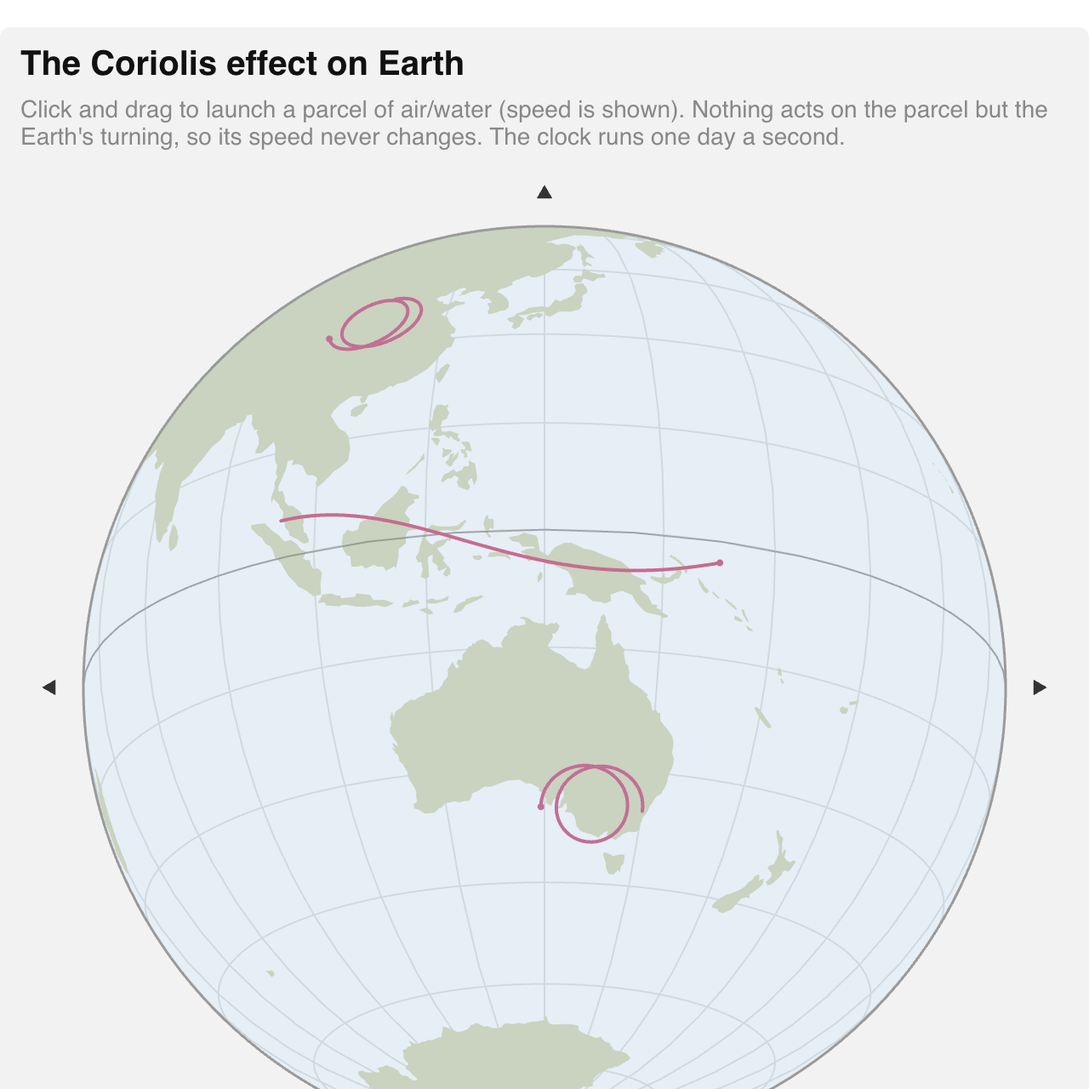
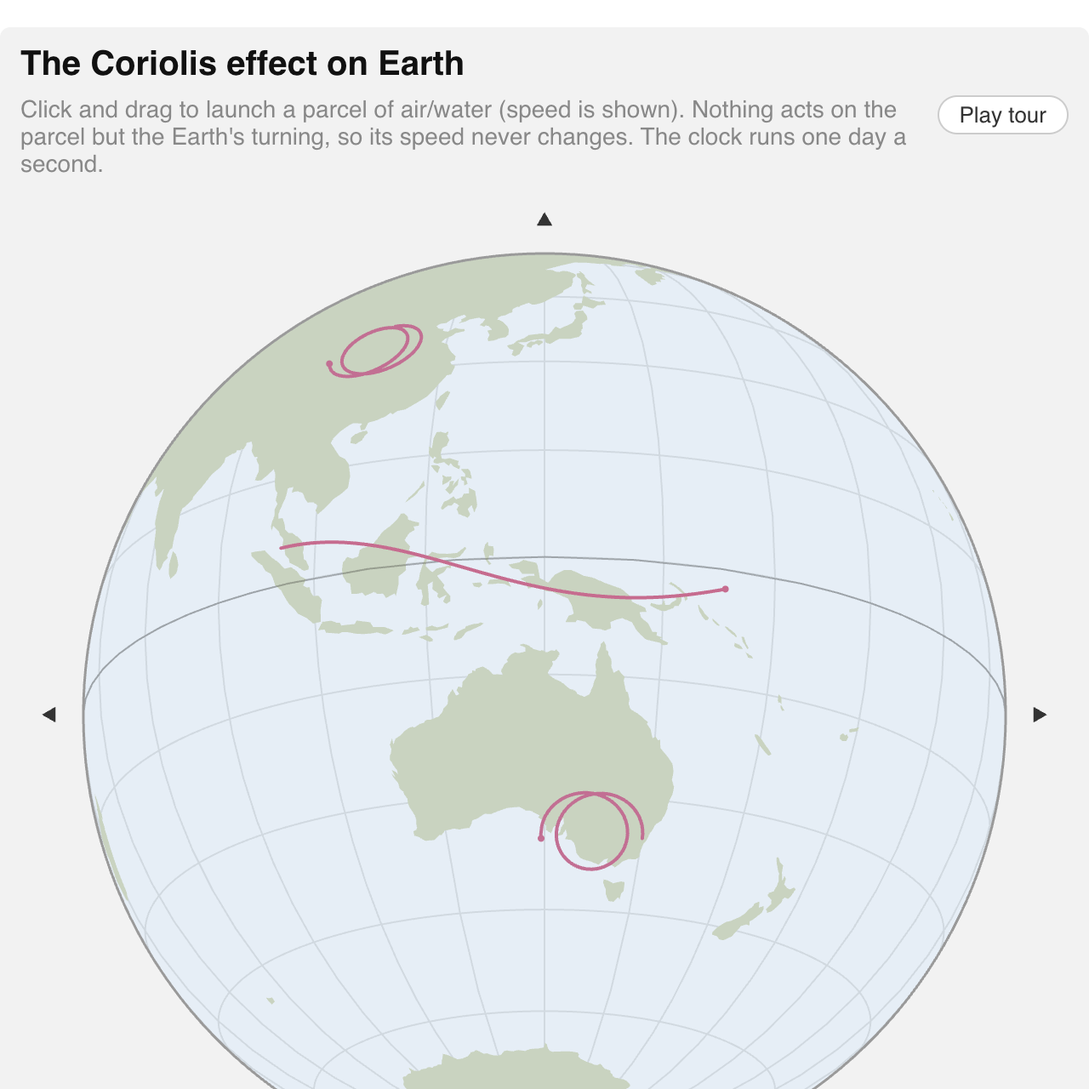
Coriolis globe: a tour of the East Australian Current and of winds over Australia
Left alone, the figure plays a tour, as the blackbody widget does. It flies the view, with
an eased zoom over five seconds, to the Tasman Sea off the east coast and sets sixteen
parcels of water going at random spots off the shelf between 27° S and 36° S, heading
roughly south as the East Australian Current does, at 0.1 to 2 m/s drawn evenly in the
logarithm; waits for them to fade; flies back out over the continent and sets eight
parcels of air going in random directions at 15 to 40 m/s; waits again; and goes round.
A tour parcel stays eight seconds before fading. Any throw, view button or key stops the
tour and a Play tour button beside the note starts it again; it does not play for a reader
who prefers reduced motion, the embed takes ?tour=0 and the factory {tour: false}. The
parcel cap goes to twenty so the current's sixteen are all seen at once. Parcels carry
their own lifetime so the tour's can be shorter than a thrown one's.

diff --git a/src/coriolis-sphere/widget.js b/src/coriolis-sphere/widget.js
@@ -31,6 +31,7 @@ import {geoOrthographic, geoPath, geoGraticule, geoDistance} from "https://cdn.j
 import {feature} from "https://cdn.jsdelivr.net/npm/topojson-client@3/+esm";
 
 const BACKGROUND = "#f2f2f2";
+const ACCENT = "#0b57d0";
 const OCEAN = "#e6eef6";
 const LAND = "#c9d3c0";
 const RIM = "#9a9a9a";
@@ -45,7 +46,7 @@ const TRACE_WIDTH = 2;            // px; a parcel's marker is twice as wide
 const EARTH_RADIUS = 6371;        // km
 const OMEGA = 7.2921e-5;          // rad/s
 const SIDEREAL_DAY = 86164;       // s
-const MAX_THROWS = 10;
+const MAX_THROWS = 20;            // enough for the tour's sixteen parcels of current at once
 const LIFE = 40;                  // wall-clock s a trace is shown in full
 const FADE = 8;                   // s it then takes to fade away
 // The drag's length maps onto the logarithm of the speed, as a log slider does: a hundredth
@@ -65,13 +66,42 @@ const GLOBE_R = 0.44;             // globe radius as a fraction of the figure's 
 const SPIN_RATE = 45;             // °/s the view turns while an arrow button or key is held, at zoom 1
 const ZOOM_STEP = 1.5, ZOOM_MAX = 100; // at 100× a 1 m/s current's 10 km loop is 40 px across
 
+// The tour, played when the figure is left alone: a slow zoom onto the Tasman Sea off the
+// east coast of Australia, where the East Australian Current runs south along the shelf,
+// and a handful of parcels of water set off at a current's pace; then back out over the
+// continent, where a handful of parcels of air set off at a gale's. Each scene waits for
+// its parcels to fade, then the next begins, and the tour goes round again. `box` is the
+// [lon, lat] corners the parcels start in, `heading` the compass direction they set off in,
+// ± `spread`, and `speed` the range in m/s, drawn evenly in the logarithm.
+const TOUR = [
+  {
+    name: "the East Australian Current",
+    view: {lon: 153.5, lat: -31.5, zoom: 9},
+    box: [[152.5, -36], [156, -27]], offshore: true,
+    heading: 190, spread: 50, speed: [0.1, 2], count: 16,
+  },
+  {
+    name: "winds over Australia",
+    view: {lon: 134, lat: -26, zoom: 2.2},
+    box: [[118, -34], [148, -18]],
+    heading: 90, spread: 180, speed: [15, 40], count: 8,
+  },
+];
+const TOUR_FLY = 5;         // s a scene's zoom takes
+const TOUR_LIFE = 8;        // s a tour parcel stays in full before it fades
+const TOUR_SPAWN_GAP = 0.3; // s between one tour parcel and the next
+const TOUR_START = 1.5;     // s the tour waits before its first scene
+
 const FIGURE_WIDTH = 640;
 const MIN_WIDTH = 320;
 const SVG_NS = "http://www.w3.org/2000/svg";
 
-// `world` is the TopoJSON with a `land` object; `width` caps the figure's side. `demo`
-// launches three parcels and runs the clock on a moment, for a capture of the figure in use.
-export function createCoriolisSphereWidget({world, width = FIGURE_WIDTH, demo = false} = {}) {
+// `world` is the TopoJSON with a `land` object; `width` caps the figure's side; `tour`
+// false leaves the figure still until it is touched (it is also left still for a reader who
+// prefers reduced motion). `demo` launches three parcels and runs the clock on a moment,
+// for a capture of the figure in use, and plays no tour.
+export function createCoriolisSphereWidget({world, width = FIGURE_WIDTH, tour: playTour = true, demo = false} = {}) {
+  const reduceMotion = window.matchMedia?.("(prefers-reduced-motion: reduce)")?.matches;
   const land = world?.objects?.land ? feature(world, world.objects.land) : null;
   const graticule = geoGraticule().step([15, 15])();
   const equator = {type: "LineString", coordinates: [[-180, 0], [-90, 0], [0, 0], [90, 0], [180, 0]]};
@@ -100,6 +130,8 @@ export function createCoriolisSphereWidget({world, width = FIGURE_WIDTH, demo = 
   const spin = {lon: 0, lat: 0}; // −1, 0 or 1: which way the view is being turned
   const parcels = [];
   let drag = null; // {start: [lon, lat] on the Earth, q: [sx, sy] pointer on screen, color}
+  let flight = null; // {from: {lon, lat, logZoom}, to, t, dur}: the view on its way somewhere
+  let touring = false, tour = null; // {scene, stage: "fly" | "spawn" | "hold", t, spawned}
 
   // ---- DOM ------------------------------------------------------------------------------------
   const container = document.createElement("div");
@@ -112,13 +144,24 @@ export function createCoriolisSphereWidget({world, width = FIGURE_WIDTH, demo = 
   title.textContent = "The Coriolis effect on Earth";
   container.appendChild(title);
 
+  // The note, with the tour button at its right. Words rather than a ▶ glyph, which iOS
+  // swaps for a colour emoji.
+  const noteRow = document.createElement("div");
+  noteRow.style.cssText = "display:flex;align-items:flex-start;gap:12px;padding:0 0 8px;";
   const note = document.createElement("div");
-  note.style.cssText = "padding:0 0 8px;color:#888;font-size:14px;";
+  note.style.cssText = "flex:1 1 auto;color:#888;font-size:14px;";
   note.textContent =
     "Click and drag to launch a parcel of air/water (speed is shown). " +
     "Nothing acts on the parcel but the Earth's turning, so its speed never changes. " +
     `The clock runs ${describeClock(DAY_SECONDS)}.`;
-  container.appendChild(note);
+  const tourButton = document.createElement("button");
+  tourButton.type = "button";
+  tourButton.style.cssText =
+    "flex:0 0 auto;font:13px sans-serif;color:#333;background:#fff;border:1px solid #ccc;border-radius:999px;" +
+    "padding:3px 12px;cursor:pointer;white-space:nowrap;";
+  tourButton.addEventListener("click", () => (touring ? stopTour() : startTour(0)));
+  noteRow.append(note, tourButton);
+  container.appendChild(noteRow);
 
   const scroller = document.createElement("div");
   scroller.style.cssText = "max-width:100%;overflow-x:auto;position:relative;";
@@ -154,12 +197,12 @@ export function createCoriolisSphereWidget({world, width = FIGURE_WIDTH, demo = 
   const arrow = (angle, title, place) =>
     button(triangleGlyph(angle, 14), title, `position:absolute;border:none;background:none;${place}`);
   const holdToSpin = (b, axis, dir) => {
-    const start = e => { e.preventDefault(); b.setPointerCapture?.(e.pointerId); spin[axis] = dir; };
+    const start = e => { e.preventDefault(); stopTour(); b.setPointerCapture?.(e.pointerId); spin[axis] = dir; };
     const stop = () => { if (spin[axis] === dir) spin[axis] = 0; };
     b.addEventListener("pointerdown", start);
     for (const type of ["pointerup", "pointercancel", "lostpointercapture"]) b.addEventListener(type, stop);
     // Space or Enter on the button: one step of 10°, as the arrow keys give.
-    b.addEventListener("keydown", e => { if (e.key === " " || e.key === "Enter") { e.preventDefault(); turnView(axis, (dir * 10) / zoom); } });
+    b.addEventListener("keydown", e => { if (e.key === " " || e.key === "Enter") { e.preventDefault(); stopTour(); turnView(axis, (dir * 10) / zoom); } });
     scroller.appendChild(b);
   };
   holdToSpin(arrow(-90, "Turn the view north", "top:4px;left:50%;transform:translateX(-50%);"), "lat", 1);
@@ -172,16 +215,16 @@ export function createCoriolisSphereWidget({world, width = FIGURE_WIDTH, demo = 
   const zoomStyle = "color:#333;background:rgba(255,255,255,0.92);border:1px solid #ccc;";
   const zoomIn = button(signGlyph(true), "Zoom in", `${zoomStyle}border-radius:6px 6px 0 0;`);
   const zoomOut = button(signGlyph(false), "Zoom out", `${zoomStyle}border-radius:0 0 6px 6px;margin-top:-1px;`);
-  zoomIn.addEventListener("click", () => setZoom(zoom * ZOOM_STEP));
-  zoomOut.addEventListener("click", () => setZoom(zoom / ZOOM_STEP));
+  zoomIn.addEventListener("click", () => { stopTour(); setZoom(zoom * ZOOM_STEP); });
+  zoomOut.addEventListener("click", () => { stopTour(); setZoom(zoom / ZOOM_STEP); });
   zoomPair.append(zoomIn, zoomOut);
   scroller.appendChild(zoomPair);
 
   svg.addEventListener("keydown", e => {
     const keys = {ArrowLeft: ["lon", -1], ArrowRight: ["lon", 1], ArrowUp: ["lat", 1], ArrowDown: ["lat", -1]};
-    if (keys[e.key]) { e.preventDefault(); const [axis, dir] = keys[e.key]; spin[axis] = dir; return; }
-    if (e.key === "+" || e.key === "=") { e.preventDefault(); setZoom(zoom * ZOOM_STEP); }
-    if (e.key === "-" || e.key === "_") { e.preventDefault(); setZoom(zoom / ZOOM_STEP); }
+    if (keys[e.key]) { e.preventDefault(); stopTour(); const [axis, dir] = keys[e.key]; spin[axis] = dir; return; }
+    if (e.key === "+" || e.key === "=") { e.preventDefault(); stopTour(); setZoom(zoom * ZOOM_STEP); }
+    if (e.key === "-" || e.key === "_") { e.preventDefault(); stopTour(); setZoom(zoom / ZOOM_STEP); }
   });
   svg.addEventListener("keyup", e => {
     if (e.key === "ArrowLeft" || e.key === "ArrowRight") spin.lon = 0;
@@ -262,15 +305,15 @@ export function createCoriolisSphereWidget({world, width = FIGURE_WIDTH, demo = 
       p.ball.setAttribute("cy", sy.toFixed(1));
     }
     const age = wallT - p.t0;
-    const opacity = age < LIFE ? 1 : clamp(1 - (age - LIFE) / FADE, 0, 1);
+    const opacity = age < p.life ? 1 : clamp(1 - (age - p.life) / FADE, 0, 1);
     p.path.setAttribute("opacity", opacity.toFixed(3));
     p.ball.setAttribute("opacity", opacity.toFixed(3));
   }
 
   // ---- parcels --------------------------------------------------------------------------------
   // `start` is [lon, lat] on the Earth; `toward` is [lon, lat] the throw points at; `speed`
-  // is in m/s over the ground.
-  function launch(start, toward, speed) {
+  // is in m/s over the ground; `life` is how long the parcel stays before it fades.
+  function launch(start, toward, speed, life = LIFE) {
     const r = unit(start);
     let v = [0, 0, 0];
     if (speed > 0) {
@@ -283,7 +326,7 @@ export function createCoriolisSphereWidget({world, width = FIGURE_WIDTH, demo = 
     }
     const color = speedColor(speed);
     const p = {
-      r: scale(r, EARTH_RADIUS), v, speed: norm(v), t0: wallT, color,
+      r: scale(r, EARTH_RADIUS), v, speed: norm(v), t0: wallT, life, color,
       trace: [], // sampled [lon, lat]
       path: svgEl("path", {stroke: color}, tracesG),
       ball: svgEl("circle", {r: ballR, fill: color}, tracesG),
@@ -343,16 +386,105 @@ export function createCoriolisSphereWidget({world, width = FIGURE_WIDTH, demo = 
     // Slower when zoomed in, so that the ground goes by at the same pace on screen.
     if (spin.lon) turnView("lon", (spin.lon * SPIN_RATE * dtWall) / zoom);
     if (spin.lat) turnView("lat", (spin.lat * SPIN_RATE * dtWall) / zoom);
+    if (flight) fly(dtWall);
+    if (touring) tourStep(dtWall);
     const dtSim = (dtWall * SIDEREAL_DAY) / DAY_SECONDS;
     const n = Math.max(1, Math.ceil(dtSim / STEP_MAX));
     const h = dtSim / n;
     for (let i = parcels.length - 1; i >= 0; i--) {
       const p = parcels[i];
-      if (wallT - p.t0 >= LIFE + FADE) { removeParcel(i); continue; }
+      if (wallT - p.t0 >= p.life + FADE) { removeParcel(i); continue; }
       for (let k = 0; k < n; k++) step(p, h);
       sample(p);
     }
     if (draw) render();
+  }
+
+  // ---- the view on its way somewhere ----------------------------------------------------------
+  function flyTo({lon, lat, zoom: z}, dur) {
+    flight = {
+      from: {lon: viewLon, lat: viewLat, logZoom: Math.log(zoom)},
+      to: {lon, lat, logZoom: Math.log(clamp(z, 1, ZOOM_MAX))},
+      t: 0, dur,
+    };
+  }
+  function fly(dt) {
+    flight.t = Math.min(flight.dur, flight.t + dt);
+    const x = flight.t / flight.dur;
+    const s = x < 0.5 ? 2 * x * x : 1 - ((-2 * x + 2) ** 2) / 2; // ease in and out
+    const {from, to} = flight;
+    viewLon = wrapLon(from.lon + s * wrapLon(to.lon - from.lon));
+    viewLat = from.lat + s * (to.lat - from.lat);
+    zoom = Math.exp(from.logZoom + s * (to.logZoom - from.logZoom));
+    projection.scale(R * zoom);
+    if (flight.t >= flight.dur) flight = null;
+  }
+
+  // ---- the tour -------------------------------------------------------------------------------
+  function startTour(delay = TOUR_START) {
+    if (touring) return;
+    touring = true;
+    tour = {scene: 0, stage: "wait", t: -delay, spawned: 0};
+    updateTourButton();
+    emit();
+  }
+  function stopTour() {
+    if (!touring) return;
+    touring = false;
+    tour = null;
+    flight = null;
+    updateTourButton();
+    emit();
+  }
+  function updateTourButton() {
+    tourButton.textContent = touring ? "Stop tour" : "Play tour";
+    tourButton.style.borderColor = touring ? ACCENT : "#ccc";
+    tourButton.style.color = touring ? ACCENT : "#333";
+    tourButton.setAttribute("aria-pressed", touring);
+  }
+  function tourStep(dt) {
+    const scene = TOUR[tour.scene];
+    tour.t += dt;
+    if (tour.stage === "wait") {
+      if (tour.t < 0) return;
+      flyTo(scene.view, TOUR_FLY);
+      tour.stage = "fly";
+    } else if (tour.stage === "fly") {
+      if (flight) return;
+      tour.stage = "spawn";
+      tour.t = 0;
+      tour.spawned = 0;
+    } else if (tour.stage === "spawn") {
+      if (tour.spawned < scene.count && tour.t >= tour.spawned * TOUR_SPAWN_GAP) {
+        tourLaunch(scene);
+        tour.spawned++;
+      }
+      if (tour.spawned >= scene.count) tour.stage = "hold";
+    } else if (tour.stage === "hold") {
+      // On to the next scene once this one's parcels have all faded.
+      if (parcels.some(p => p.tour === tour.scene)) return;
+      tour = {scene: (tour.scene + 1) % TOUR.length, stage: "wait", t: 0, spawned: 0};
+    }
+  }
+  // One parcel at a random spot in the scene's box (kept off the coast for the current:
+  // the east coast runs from about 153.5° E at 27.5° S to 150° E at 37° S, so the start is
+  // pushed east of that line), heading the scene's way give or take its spread, at a speed
+  // drawn evenly in the logarithm of the scene's range.
+  function tourLaunch(scene) {
+    const [[lon0, lat0], [lon1, lat1]] = scene.box;
+    const lat = lat0 + Math.random() * (lat1 - lat0);
+    let lon = lon0 + Math.random() * (lon1 - lon0);
+    if (scene.offshore) {
+      const coast = 153.5 - (-27.5 - lat) * (3.5 / 9.5);
+      lon = coast + 0.5 + Math.random() * 2;
+    }
+    const bearing = ((scene.heading + (Math.random() * 2 - 1) * scene.spread) * Math.PI) / 180;
+    // Aim a degree along the bearing, which is near enough a straight line at this scale.
+    const toward = [lon + Math.sin(bearing) / Math.cos((lat * Math.PI) / 180), lat + Math.cos(bearing)];
+    const [s0, s1] = scene.speed;
+    const speed = s0 * Math.pow(s1 / s0, Math.random());
+    launch([lon, lat], toward, speed, TOUR_LIFE);
+    parcels[parcels.length - 1].tour = tour.scene;
   }
 
   // The clock runs from the first frame and stops for good once the widget has been taken
@@ -384,6 +516,7 @@ export function createCoriolisSphereWidget({world, width = FIGURE_WIDTH, demo = 
     const start = groundAt(xy);
     if (!start) return;
     e.preventDefault();
+    stopTour();
     svg.setPointerCapture?.(e.pointerId);
     drag = {start, q: xy, id: e.pointerId};
     drawDrag();
@@ -466,7 +599,7 @@ export function createCoriolisSphereWidget({world, width = FIGURE_WIDTH, demo = 
 
   // ---- changes --------------------------------------------------------------------------------
   function value() {
-    return {parcels: parcels.length, view: [viewLon, viewLat], zoom};
+    return {parcels: parcels.length, view: [viewLon, viewLat], zoom, touring};
   }
   function emit() {
     container.value = value();
@@ -482,6 +615,7 @@ export function createCoriolisSphereWidget({world, width = FIGURE_WIDTH, demo = 
   }
 
   layoutControls();
+  updateTourButton();
   build();
   container.value = value();
 
@@ -497,6 +631,8 @@ export function createCoriolisSphereWidget({world, width = FIGURE_WIDTH, demo = 
     launch([100, 5], [110, 5], 60);
     run(0.45);
     render();
+  } else if (playTour && !reduceMotion) {
+    startTour();
   }
   requestAnimationFrame(tick);
 

diff --git a/src/coriolis-sphere/index.md b/src/coriolis-sphere/index.md
@@ -1,6 +1,6 @@
 # The Coriolis effect on the Earth
 
-The [turntable](../coriolis/), but on the Earth. Press, drag and release on the globe to launch a parcel of air or water: it starts where you pressed and sets off the way you dragged, at the speed over the ground that shows as you drag, from the 10 cm/s of an ocean current to the 300 km/h of the fiercest storm. Nothing then acts on it but the Earth's turning, so it keeps its speed and only its direction changes. It bends and goes round in a loop, clockwise in the north and anticlockwise in the south. The Earth's size and spin are real; only the clock is sped up, one day a second, because at real speed you would watch for hours and see nothing move. The triangles around the globe turn it to look at any part of it, and + and − zoom in and out; dragging is kept for throwing.
+The [turntable](../coriolis/), but on the Earth. Press, drag and release on the globe to launch a parcel of air or water: it starts where you pressed and sets off the way you dragged, at the speed over the ground that shows as you drag, from the 10 cm/s of an ocean current to the 300 km/h of the fiercest storm. Nothing then acts on it but the Earth's turning, so it keeps its speed and only its direction changes. It bends and goes round in a loop, clockwise in the north and anticlockwise in the south. The Earth's size and spin are real; only the clock is sped up, one day a second, because at real speed you would watch for hours and see nothing move. The triangles around the globe turn it to look at any part of it, and + and − zoom in and out; dragging is kept for throwing. Left alone, the figure plays a tour: it zooms in on the Tasman Sea off the east coast of Australia and sets a handful of parcels of water going at the pace of the East Australian Current, waits for them to fade, then pulls back over the continent and sets a handful of parcels of air going at a gale's pace, and round again. Touch anything and the tour stops; *Play tour* starts it again.
 
 ```js
 import {createCoriolisSphereWidget} from "./widget.js";
@@ -38,7 +38,9 @@ What is left is the sideways push, which acts only on things that are moving. Th
 
 The parcel's position and velocity are kept as vectors on the sphere, in the Earth's own rotating frame, and stepped with a fourth-order Runge–Kutta integrator. The acceleration is the horizontal Coriolis term alone, ${tex`-f\,\hat{\mathbf r} \times \mathbf v`} with ${tex`f = 2\Omega \sin\varphi`}, plus the term that keeps the parcel on the sphere; after each step the parcel is put back on the surface and its speed is put back to what it was. With ${tex`f = 0`} the parcel runs along a great circle; with it, a parcel left alone traces an inertial circle of radius ${tex`v/f`} and period ${tex`2\pi/f`}: 12 h at a pole, 17 h at 45°, longer and longer toward the equator. Dropping the centrifugal term and the vertical part of the Coriolis term is the standard *traditional approximation* of meteorology, and it is the right physics for air and water on the real, oblate Earth, as explained above.
 
-The Earth's radius is 6371 km and its rotation 7.29 × 10<sup>−5</sup> rad/s, one turn per sidereal day. The clock runs one day a second. A throw is relative to the ground, since a wind is a motion relative to the Earth; the drag's length sets the logarithm of the speed, as a log slider does: a hundredth of the figure's width is 10 cm/s, a third of it 300 km/h, and anything longer stays at 300 km/h; and the speed shows beside the arrow as you drag, in cm/s for a current and m/s with km/h for a wind, with what moves at that speed under it: a slow ocean current below 0.5 m/s, a fast one such as the Gulf Stream to 3 m/s, a breeze to 14 m/s, where the Beaufort scale's near gale begins, and a gale or a storm beyond. Each parcel and its trace are coloured by the logarithm of its speed, cyan for the slowest through blue to pink for the fastest, on Peter Kovesi's isoluminant CET-I3 map (darkened a little), so that no speed stands out more than another; the marker is twice as wide as the trace. The globe is an orthographic projection seen, to begin with, from above 20° S, 135° E; the triangles at the sides of the figure turn the view at 45° a second while held, slower when zoomed in, the + and − buttons zoom by half at a time up to 100 times, and the arrow keys and + and − do the same once the figure has focus. A trace is kept for forty seconds, forty days of the Earth's time, and then fades over eight; up to ten parcels can be in the air at once, after which the oldest goes first. The land is the 110 m Natural Earth outline.
+The Earth's radius is 6371 km and its rotation 7.29 × 10<sup>−5</sup> rad/s, one turn per sidereal day. The clock runs one day a second. A throw is relative to the ground, since a wind is a motion relative to the Earth; the drag's length sets the logarithm of the speed, as a log slider does: a hundredth of the figure's width is 10 cm/s, a third of it 300 km/h, and anything longer stays at 300 km/h; and the speed shows beside the arrow as you drag, in cm/s for a current and m/s with km/h for a wind, with what moves at that speed under it: a slow ocean current below 0.5 m/s, a fast one such as the Gulf Stream to 3 m/s, a breeze to 14 m/s, where the Beaufort scale's near gale begins, and a gale or a storm beyond. Each parcel and its trace are coloured by the logarithm of its speed, cyan for the slowest through blue to pink for the fastest, on Peter Kovesi's isoluminant CET-I3 map (darkened a little), so that no speed stands out more than another; the marker is twice as wide as the trace. The globe is an orthographic projection seen, to begin with, from above 20° S, 135° E; the triangles at the sides of the figure turn the view at 45° a second while held, slower when zoomed in, the + and − buttons zoom by half at a time up to 100 times, and the arrow keys and + and − do the same once the figure has focus. A trace is kept for forty seconds, forty days of the Earth's time, and then fades over eight; up to twenty parcels can be in the air at once, after which the oldest goes first. The land is the 110 m Natural Earth outline.
+
+The tour has two scenes. The first flies the view to 153.5° E, 31.5° S at nine times zoom over five seconds and starts sixteen parcels of water, one every third of a second, at random spots between half a degree and two and a half degrees off the coast between 27° S and 36° S, heading roughly south as the East Australian Current does, at speeds drawn evenly in the logarithm between 0.1 and 2 m/s. The second flies back out to 134° E, 26° S at 2.2 times zoom and starts eight parcels of air at random spots over the continent, in random directions, at 15 to 40 m/s. A tour parcel stays eight seconds before it fades, each scene waits until its parcels have gone, and the tour goes round again. It does not play for a reader whose system asks for reduced motion, and the embed takes `?tour=0` to leave it off.
 
 ## Embed this widget
 
@@ -61,8 +63,8 @@ display(embedSnippets({
 
   const world = await fetch("${cdnUrl("data/countries-110m.json")}").then(r => r.json());
 
-  // Options: {width: 480} caps the figure's side. Leave out \`world\` for a globe
-  // with no land.
+  // Options: {width: 480} caps the figure's side; {tour: false} leaves the figure
+  // still until it is touched. Leave out \`world\` for a globe with no land.
   document.getElementById("coriolis-sphere")
     .appendChild(createCoriolisSphereWidget({world}));
 <\/script>`

diff --git a/src/index.md b/src/index.md
@@ -93,7 +93,7 @@ Small, self-contained interactive figures for teaching climate science. Each wid
   </a>
   <a class="card" href="./coriolis-sphere/">
     <h2>The Coriolis effect on the Earth</h2>
-    <img class="thumb" src="./assets/thumbnails/coriolis-sphere.png" alt="A globe seen from above the Indian Ocean with Australia and Asia in pale green on pale blue, with three small parcels and their traces in shades of blue and pink by speed: one looping clockwise over China, one looping anticlockwise off south-east Australia, and one running nearly straight east near the equator; above it a short note, four small triangles at the sides of the figure for turning the view, and + and − in the bottom corner for zooming">
+    <img class="thumb" src="./assets/thumbnails/coriolis-sphere.png" alt="A globe seen from above the Indian Ocean with Australia and Asia in pale green on pale blue, with three small parcels and their traces in shades of blue and pink by speed: one looping clockwise over China, one looping anticlockwise off south-east Australia, and one running nearly straight east near the equator; above it a short note with a Play tour button, four small triangles at the sides of the figure for turning the view, and + and − in the bottom corner for zooming">
   </a>
 </div>
 

diff --git a/src/coriolis-sphere/embed.md b/src/coriolis-sphere/embed.md
@@ -31,10 +31,13 @@ import {createCoriolisSphereWidget} from "./widget.js";
 
 const world = await FileAttachment("../data/countries-110m.json").json();
 
-// ?demo opens with three parcels already launched (the thumbnail capture uses it).
-const demo = new URLSearchParams(location.search).has("demo");
+// ?tour=0 leaves the figure still until it is touched instead of playing the tour; ?demo
+// opens with three parcels already launched (the thumbnail capture uses it).
+const params = new URLSearchParams(location.search);
+const tour = !["0", "false", "no", "off"].includes(params.get("tour") ?? "");
+const demo = params.has("demo");
 ```
 
 ```js
-const coriolis = view(createCoriolisSphereWidget({world, demo}));
+const coriolis = view(createCoriolisSphereWidget({world, tour, demo}));
 ```
